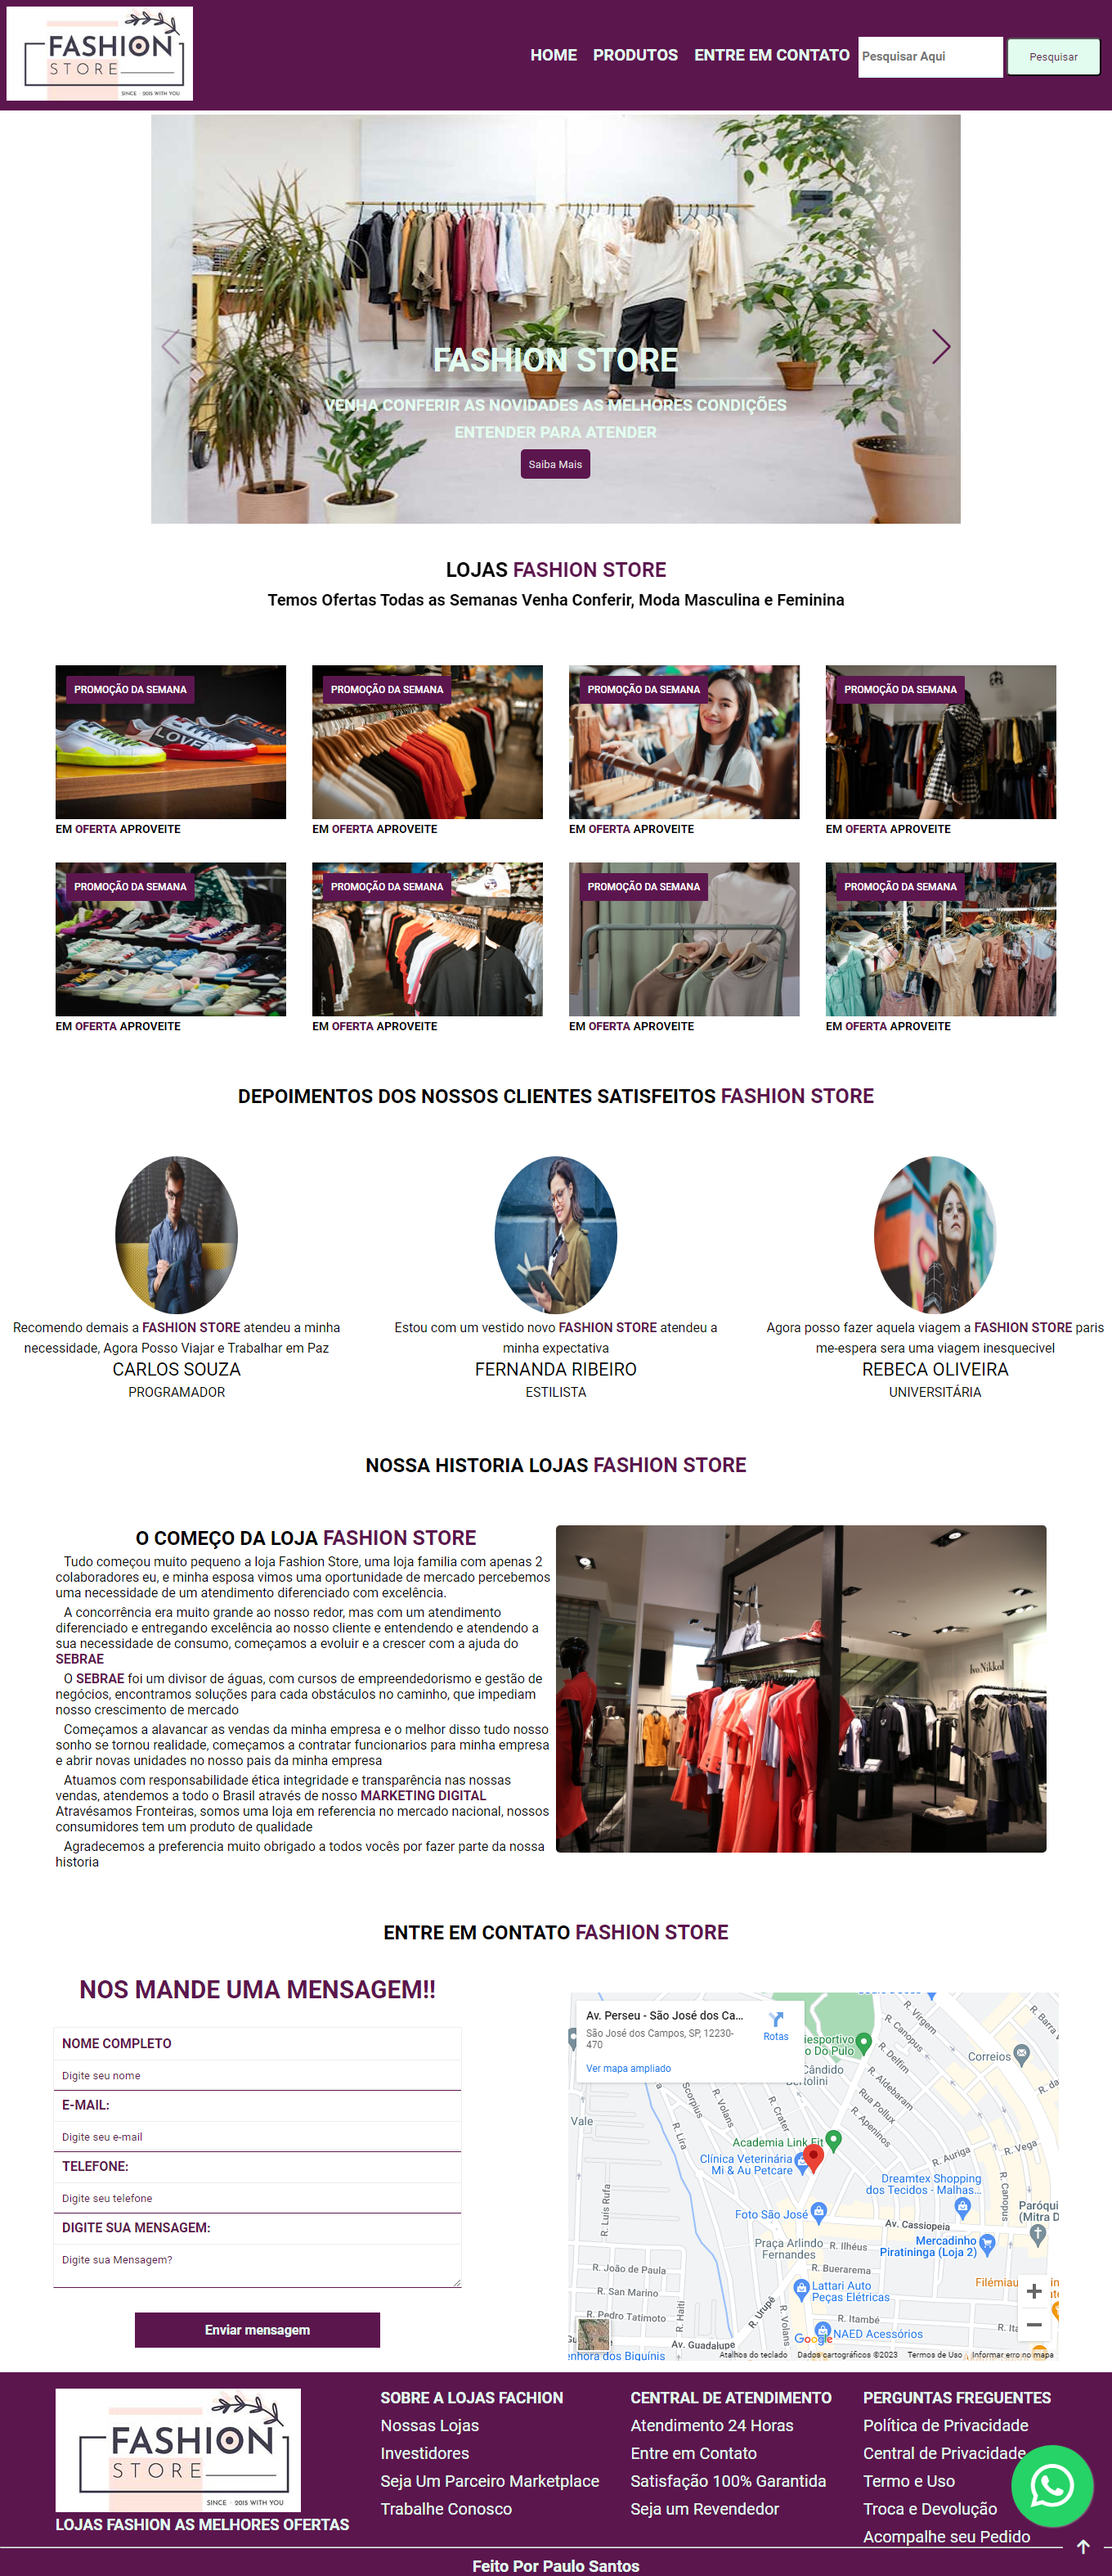
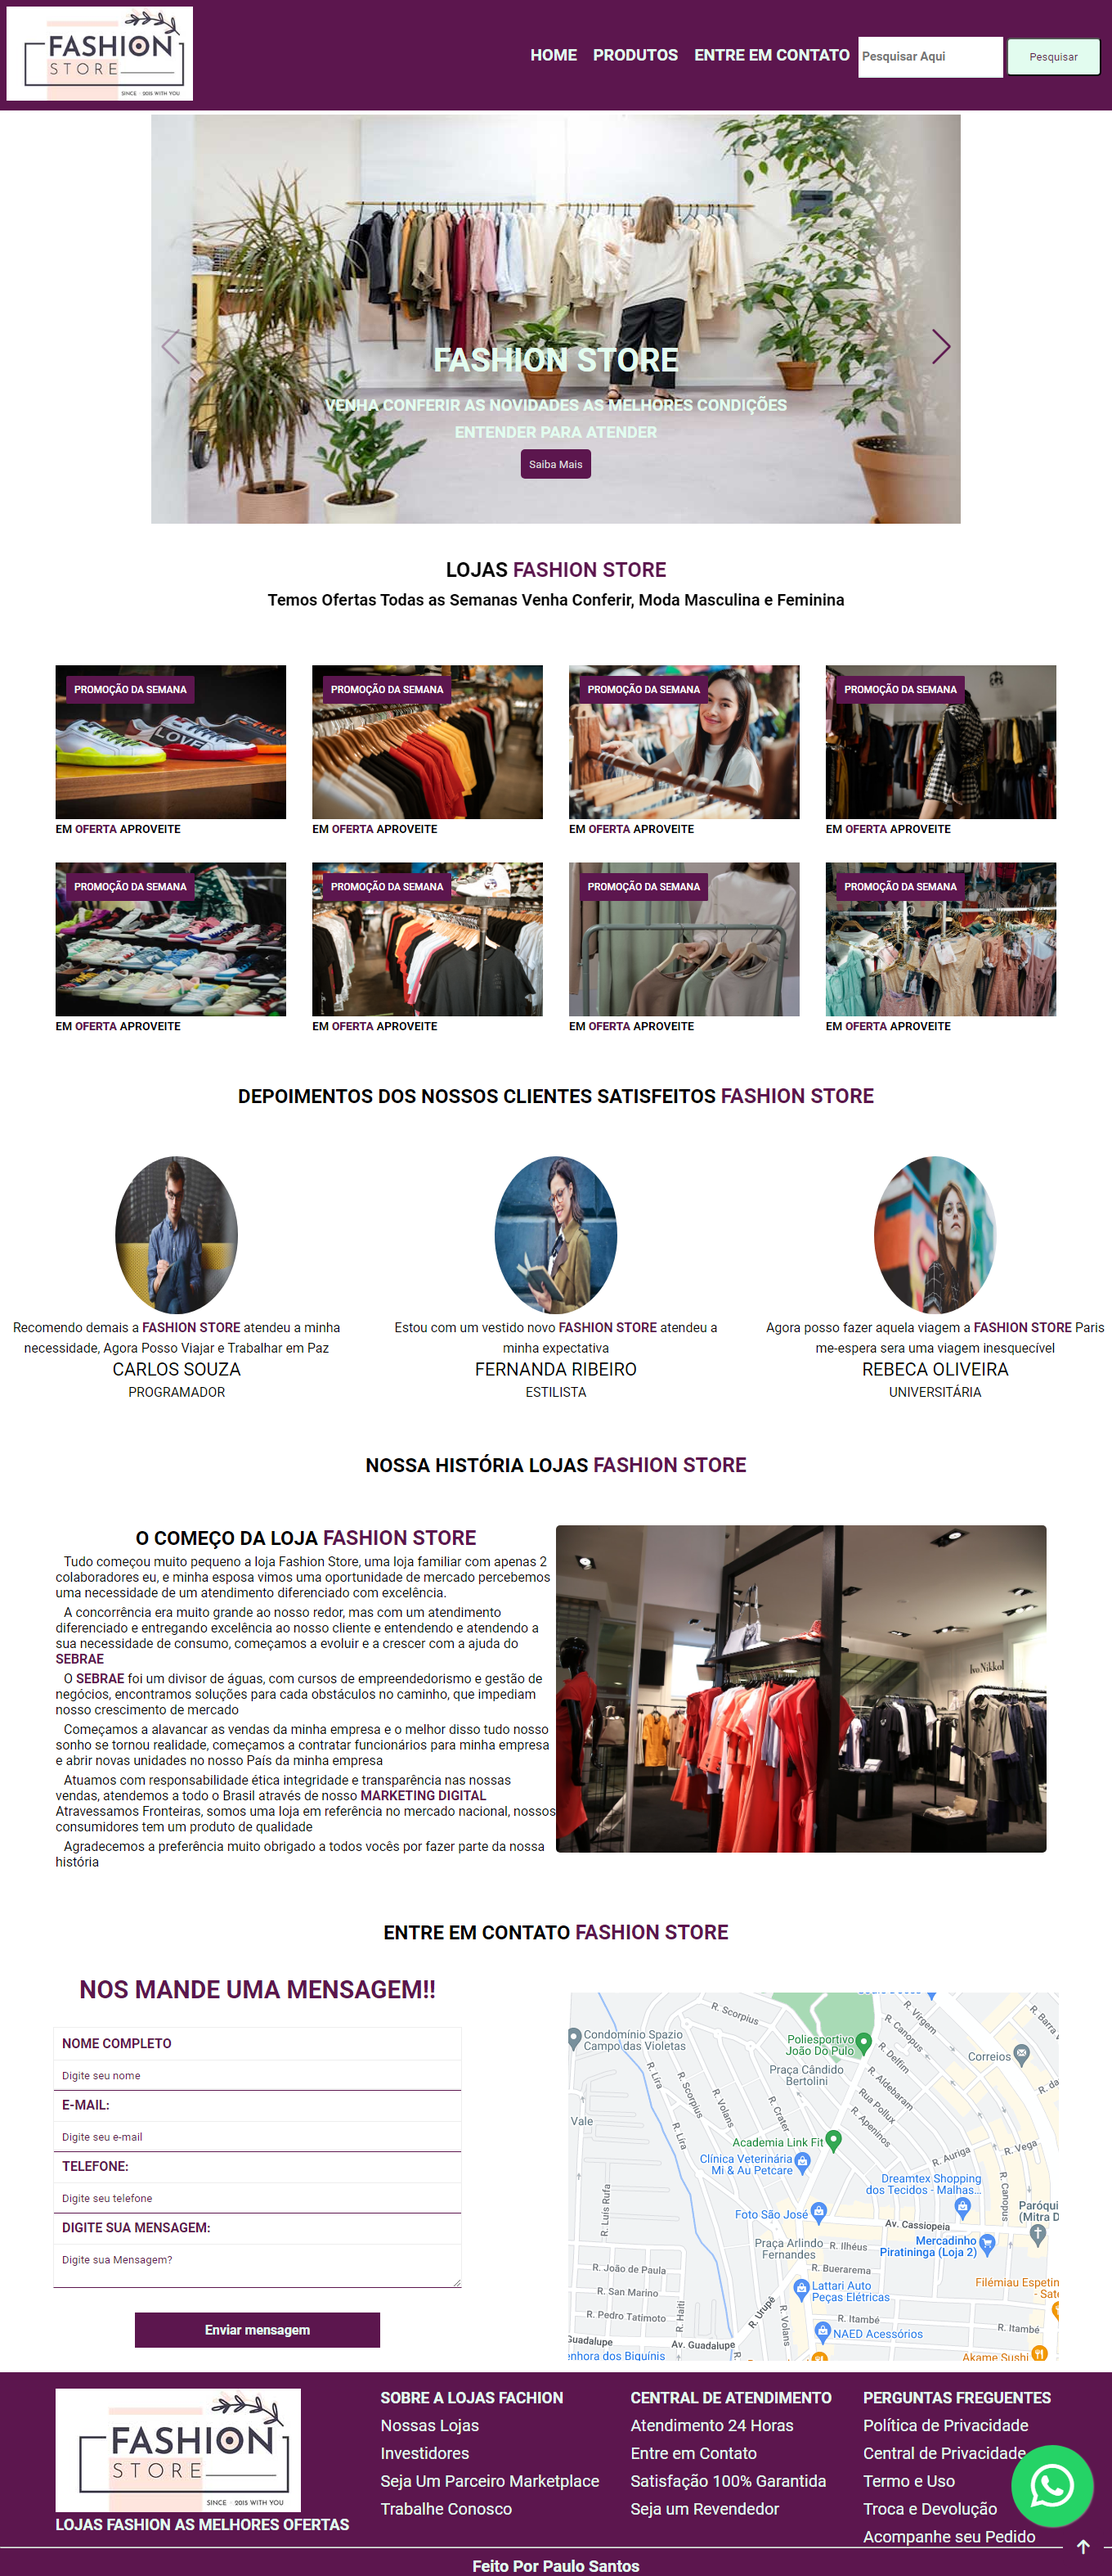
Atualizar

diff --git a/index.html b/index.html
@@ -292,7 +292,7 @@ data-aos-duration="3000">
    
     <img src="img/cliente-sp3.jpg" alt/>
     <p>
-      Agora posso fazer aquela viagem a  <span>FASHION STORE</span> paris me-espera sera uma viagem inesquecivel
+      Agora posso fazer aquela viagem a  <span>FASHION STORE</span> Paris me-espera sera uma viagem inesquecível
     </p>
     <h2>Rebeca Oliveira</h2>
     <p>UNIVERSITÁRIA</p>
@@ -303,7 +303,7 @@ data-aos-duration="3000">
 data-aos-anchor="#example-anchor"
 data-aos-offset="500"
 data-aos-duration="500">
-    <h2>Nossa Historia Lojas <spanb class="fashion">FASHION STORE</spanb></h2>
+    <h2>Nossa História Lojas <spanb class="fashion">FASHION STORE</spanb></h2>
 </div>
 
 <section class="Text-destaque">
@@ -311,13 +311,13 @@ data-aos-duration="500">
   data-aos-offset="300"
   data-aos-easing="ease-in-sine">
       <h1>O começo da loja  <spanb class="fashion">FASHION STORE</spanb></h1>
-      <p>Tudo começou muito pequeno a loja Fashion Store, uma loja familia com apenas 2 colaboradores eu, e minha esposa
+      <p>Tudo começou muito pequeno a loja Fashion Store, uma loja familiar com apenas 2 colaboradores eu, e minha esposa
         vimos uma oportunidade de mercado percebemos uma necessidade de um atendimento diferenciado com excelência.</p>
       <p>A concorrência era muito grande ao nosso redor, mas com um atendimento diferenciado e entregando excelência ao nosso cliente e entendendo e atendendo a sua necessidade de consumo, começamos a evoluir e a crescer com a ajuda do <span>Sebrae</span></p>
       <p>O <span>Sebrae</span> foi um divisor de águas, com cursos de empreendedorismo e gestão de negócios, encontramos soluções para cada obstáculos no caminho, que impediam nosso crescimento de mercado</p>
-      <p>Começamos a alavancar as vendas da minha empresa e o melhor disso tudo nosso sonho se tornou realidade, começamos a contratar funcionarios para minha empresa e abrir novas unidades no nosso pais da minha empresa</p>
-      <p>Atuamos com responsabilidade ética integridade e transparência nas nossas vendas, atendemos a todo o Brasil através de nosso <span>Marketing Digital</span> Atravésamos Fronteiras, somos uma loja em referencia no mercado nacional, nossos consumidores tem um produto de qualidade</p>
-      <p>Agradecemos a preferencia muito obrigado a todos vocês por fazer parte da nossa historia</p>
+      <p>Começamos a alavancar as vendas da minha empresa e o melhor disso tudo nosso sonho se tornou realidade, começamos a contratar funcionários para minha empresa e abrir novas unidades no nosso País da minha empresa</p>
+      <p>Atuamos com responsabilidade ética integridade e transparência nas nossas vendas, atendemos a todo o Brasil através de nosso <span>Marketing Digital</span> Atravessamos Fronteiras, somos uma loja em referência no mercado nacional, nossos consumidores tem um produto de qualidade</p>
+      <p>Agradecemos a preferência muito obrigado a todos vocês por fazer parte da nossa história</p>
   </div>
 
   <div class="home-imagem" data-aos="fade-right"
@@ -389,7 +389,7 @@ data-aos-duration="3000">
       <li><a href="#">Central de Privacidade</a></li>
       <li><a href="#">Termo e Uso</a></li>
       <li><a href="#">Troca e Devolução</a></li>
-      <li><a href="#">Acompalhe seu Pedido</a></li>
+      <li><a href="#">Acompanhe seu Pedido</a></li>
     </ul>
   </div>
  

diff --git a/js/array.js b/js/array.js
@@ -122,25 +122,25 @@ let products = {
       paragrafo: "Fashion Store",
     },
     {
-      productName: "Tenis",
+      productName: "Tênis",
       price: "129,00",
       image: "img/tenis2.jpg",
       paragrafo: "Fashion Store",
     },
     {
-      productName: "Tenis",
+      productName: "Tênis",
       price: "89,00",
       image: "img/tenis-2.jpg",
       paragrafo: "Fashion Store",
     },
     {
-      productName: "Tenis",
+      productName: "Tênis",
       price: "189,00",
       image: "img/tenis-3.jpg",
       paragrafo: "Fashion Store",
     },
     {
-      productName: "Tenis",
+      productName: "Tênis",
       price: "49,00",
       image: "img/tenis-4.jpg",
       paragrafo: "Fashion Store",

diff --git a/produtos.html b/produtos.html
@@ -126,7 +126,7 @@
             <li><a href="#">Central de Privacidade</a></li>
             <li><a href="#">Termo e Uso</a></li>
             <li><a href="#">Troca e Devolução</a></li>
-            <li><a href="#">Acompalhe seu Pedido</a></li>
+            <li><a href="#">Acompanhe seu Pedido</a></li>
           </ul>
         </div>
       </div>
